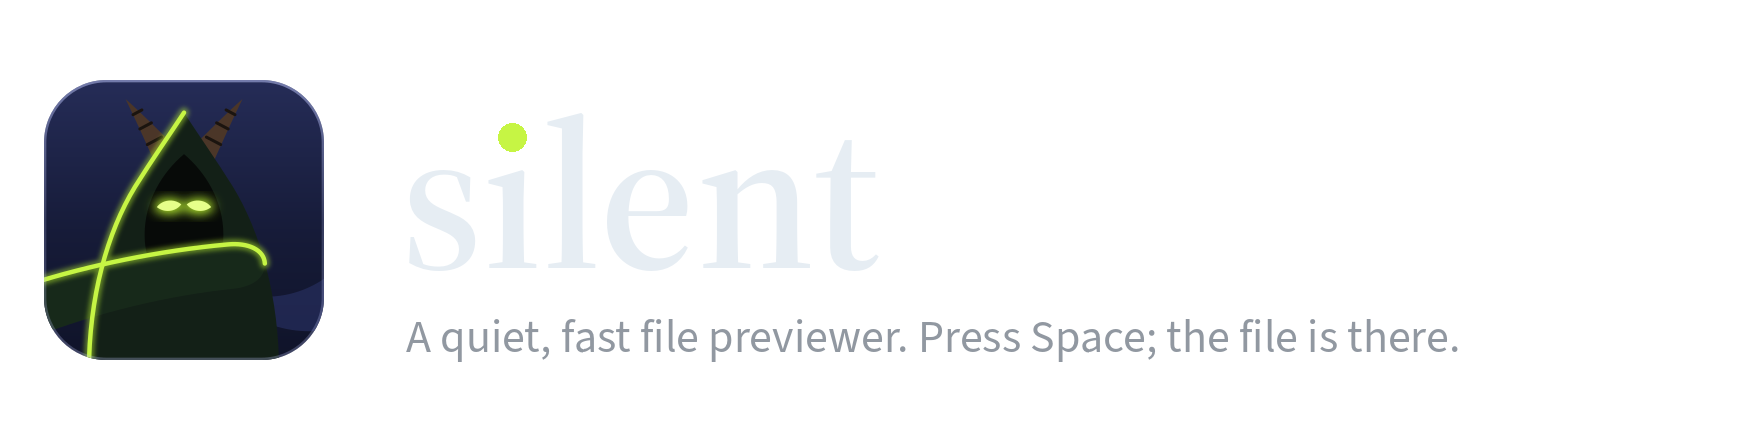
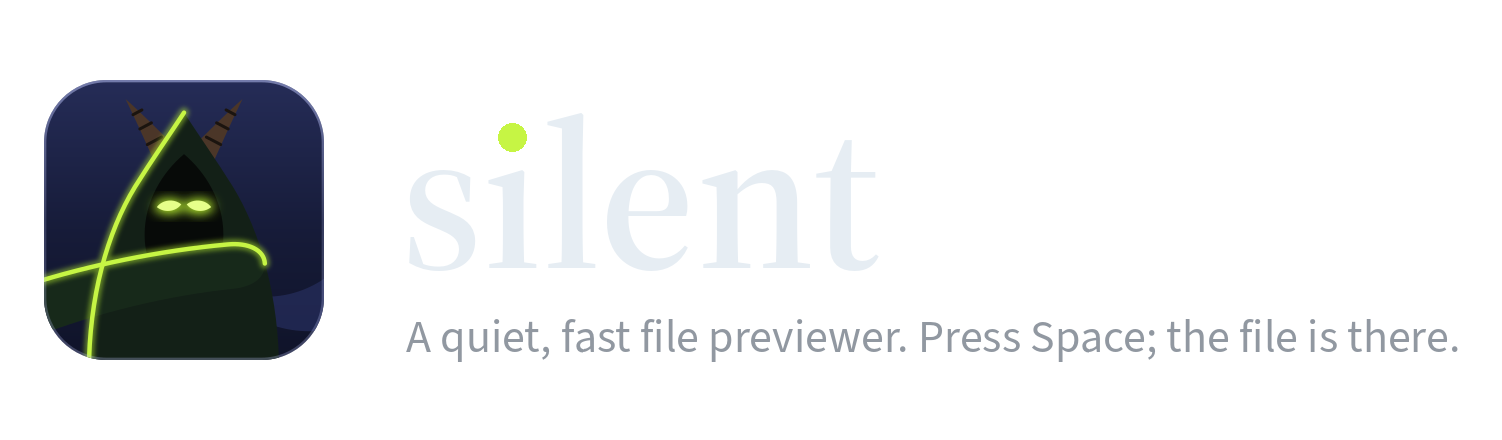
silent installs from the AUR, and the README's header sits in the middle
silent 1.0.0 is on the AUR, so the README and the homepage lead with
`paru -S silent` and keep `makepkg -si` in a clone for what is on main;
the homepage's Nix card is the one `nix profile install` line as well.

The header picture had 44 px of margin on its left and 302 on its right,
so GitHub's centred README put the icon and the name left of the middle.
It is cropped to the same 44 px on both sides.

Claude-Session: https://claude.ai/code/session_01SrhTe511MnFqq3gFxy6A1N

Changed region(s): [[0.0, 0.1773, 0.98, 0.8273]]

diff --git a/site/index.html b/site/index.html
@@ -465,23 +465,19 @@
 <section class="feature wrap" id="install">
   <div class="section-head">
     <p class="kicker">Install</p>
-    <h2>From source, in three commands</h2>
+    <h2>One command on Arch, one with Nix</h2>
     <p>silent runs on X11 only for now; it does not run on Wayland.</p>
   </div>
   <div class="install-grid">
     <div class="card install-item">
       <header><h3>Arch Linux</h3><button class="copy" type="button">Copy</button></header>
-      <div class="code"><pre><code>git clone https://github.com/crazyboycjr/silent
-cd silent/packaging/arch
-makepkg -si</code></pre></div>
-      <p>The package replaces sushi and installs the D-Bus services Nautilus and Nemo call, so your next Space starts silent, with no restart. It will be on the AUR as <code>silent</code> too.</p>
+      <div class="code"><pre><code>paru -S silent</code></pre></div>
+      <p>The package replaces sushi and installs the D-Bus services Nautilus and Nemo call, so your next Space starts silent, with no restart. To build what is on <code>main</code> instead, run <code>makepkg -si</code> in a clone's <code>packaging/arch</code>.</p>
     </div>
     <div class="card install-item">
       <header><h3>Nix</h3><button class="copy" type="button">Copy</button></header>
-      <div class="code"><pre><code>git clone https://github.com/crazyboycjr/silent
-cd silent
-nix build</code></pre></div>
-      <p>silent is then in <code>result/</code>, and <code>nix profile install github:crazyboycjr/silent</code> installs it without a clone. Outside NixOS it reaches your Vulkan driver through <a href="https://github.com/nix-community/nixGL">nixGL</a>, as <a href="https://github.com/crazyboycjr/silent/blob/main/docs/development.md#nix">the development guide</a> shows.</p>
+      <div class="code"><pre><code>nix profile install github:crazyboycjr/silent</code></pre></div>
+      <p>It installs silent with the same D-Bus services; <code>nix build</code> in a clone leaves it in <code>result/</code>. Outside NixOS it reaches your Vulkan driver through <a href="https://github.com/nix-community/nixGL">nixGL</a>, as <a href="https://github.com/crazyboycjr/silent/blob/main/docs/development.md#nix">the development guide</a> shows.</p>
     </div>
     <div class="card install-item">
       <header><h3>Other distributions</h3><button class="copy" type="button">Copy</button></header>

diff --git a/README.md b/README.md
@@ -1,7 +1,7 @@
 <p align="center">
   <picture>
     <source media="(prefers-color-scheme: dark)" srcset="docs/silent-header-dark.png">
-    <img src="docs/silent-header-light.png" width="880" alt="silent: a quiet, fast file previewer. Press Space; the file is there.">
+    <img src="docs/silent-header-light.png" width="751" alt="silent: a quiet, fast file previewer. Press Space; the file is there.">
   </picture>
 </p>
 
@@ -84,7 +84,13 @@ Press <kbd>?</kbd> and a card lists the keys for the file in front of you, silen
 
 silent runs on **X11 only**; it does not run on Wayland yet. It needs a Vulkan driver, glycin's image loaders with bubblewrap, GStreamer for video and sound, libarchive, and the fonts Noto Sans and JetBrains Mono.
 
-On Arch Linux, from this repository, until silent is on the AUR:
+On Arch Linux, from the AUR:
+
+```sh
+paru -S silent
+```
+
+Or from this repository, which builds what is on `main`:
 
 ```sh
 git clone https://github.com/crazyboycjr/silent

diff --git a/docs/development.md b/docs/development.md
@@ -151,7 +151,7 @@ changes over.
 tests, and installs `/usr/bin/silent`, the D-Bus services of Nautilus and
 Nemo, the icons and the README. It provides `sushi` and conflicts with
 `sushi` and `nemo-preview`, whose services it replaces. From that
-directory, `makepkg -si`. The AUR's PKGBUILD builds a tagged release with
+directory, `makepkg -si`. The AUR's PKGBUILD (`paru -S silent`) builds a tagged release with
 the same dependencies and steps, so a change to one belongs in the other.
 
 ## Nix
